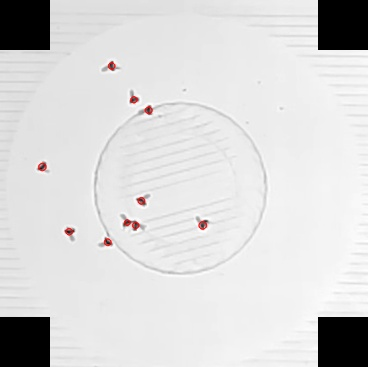
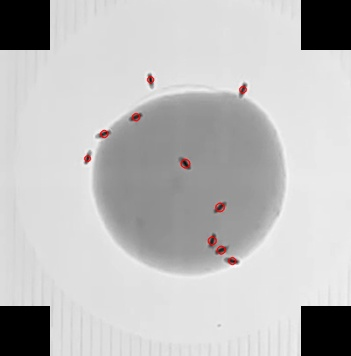
changes in displayed infos

diff --git a/FlyTracking.2.00.py b/FlyTracking.2.00.py
@@ -375,15 +375,15 @@ class Manager(object):
                 self.mask = cv2.line(self.mask, (int(track.old_plot[0][0]),int(track.old_plot[0][1])),(int(track.plot[0][0]),int(track.plot[0][1])), self.parameters.color[track.label].tolist(), 1)
                 cv2.putText(self.frame,str(track.label),(int(track.plot[0][0]),int(track.plot[0][1])), self.parameters.font, 0.4,(255,0,0),1,cv2.LINE_AA)
 
-        cv2.putText(self.frame,'frame ' + str(self.numCurrentFrame),(10,20), self.parameters.font, 0.4,(255,0,0),1,cv2.LINE_AA)
-        cv2.putText(self.frame,'nb tracks ' + str(len(self.tracker.tracks)),(10,40), self.parameters.font, 0.4,(255,0,0),1,cv2.LINE_AA)
-        cv2.putText(self.frame,'Threshold  %3d' % (self.minThreshold),(10,60), self.parameters.font, 0.4,(255,0,0),1,cv2.LINE_AA)
+        cv2.putText(self.frame,'frame ' + str(self.numCurrentFrame),(10,20), self.parameters.font, 0.3,(255,0,0),1,cv2.LINE_AA)
+        cv2.putText(self.frame,'nb tracks ' + str(len(self.tracker.tracks)),(10,40), self.parameters.font, 0.3,(255,0,0),1,cv2.LINE_AA)
+        cv2.putText(self.frame,'Threshold  %3d' % (self.minThreshold),(10,60), self.parameters.font, 0.3,(255,0,0),1,cv2.LINE_AA)
 
         if self.parameters.flag_hide_tracks==True:
-            cv2.putText(self.frame,"fade out activate",(10,80), self.parameters.font, 0.4,(255,0,0),1,cv2.LINE_AA)
+            cv2.putText(self.frame,"fade out activate",(10,80), self.parameters.font, 0.3,(255,0,0),1,cv2.LINE_AA)
 
         if self.parameters.flag_init_record == True:
-            cv2.putText(self.frame,"save video",(10,100), self.parameters.font, 0.4,(255,0,0),1,cv2.LINE_AA)
+            cv2.putText(self.frame,"save video",(10,100), self.parameters.font, 0.3,(255,0,0),1,cv2.LINE_AA)
 
         self.img = cv2.addWeighted(self.mask, 1, self.frame, 1, 0)
         cv2.addWeighted(self.mask, self.parameters.alpha_1, self.mask, 0.5, self.parameters.alpha_2 ,self.mask)
@@ -391,7 +391,7 @@ class Manager(object):
         if self.parameters.display == 1: #and  self.numCurrentFrame%2==0:
             figureName = 'res_' + str(self.numArene)
             height, width, depth = self.img.shape
-            imgScale = 2
+            imgScale = 1
             newX,newY = self.img.shape[1]*imgScale, self.img.shape[0]*imgScale
             im_ = cv2.resize(self.img,(int(newX),int(newY)))
 
@@ -483,7 +483,7 @@ class Manager(object):
     def initPosArene(self):
         posArene = []
         height,width,channel = self.frame.shape
-        scale = 2
+        scale = 1
         src = cv2.resize(self.frame,(int(width/scale), int(height/scale)), interpolation = cv2.INTER_LINEAR)
         gray = cv2.cvtColor(src, cv2.COLOR_BGR2GRAY)
         rows = gray.shape[0]
@@ -533,7 +533,7 @@ def initPosArene(args,flag):
     # automatic extraction of arean circles
     # TO DO - param1 param2 have to be defined automatically
     if flag == 1:
-        scale = 2.5
+        scale = 1
         src = cv2.resize(frame,(int(width/scale), int(height/scale)), interpolation = cv2.INTER_LINEAR)
         gray = cv2.cvtColor(src, cv2.COLOR_BGR2GRAY)
         rows = gray.shape[0]
